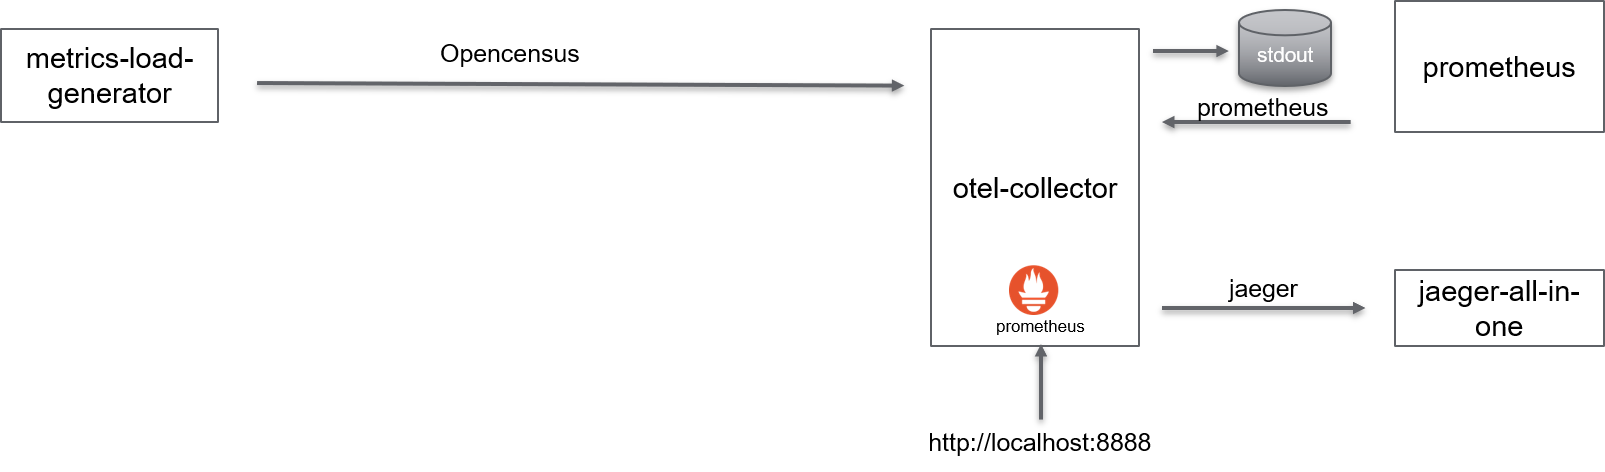
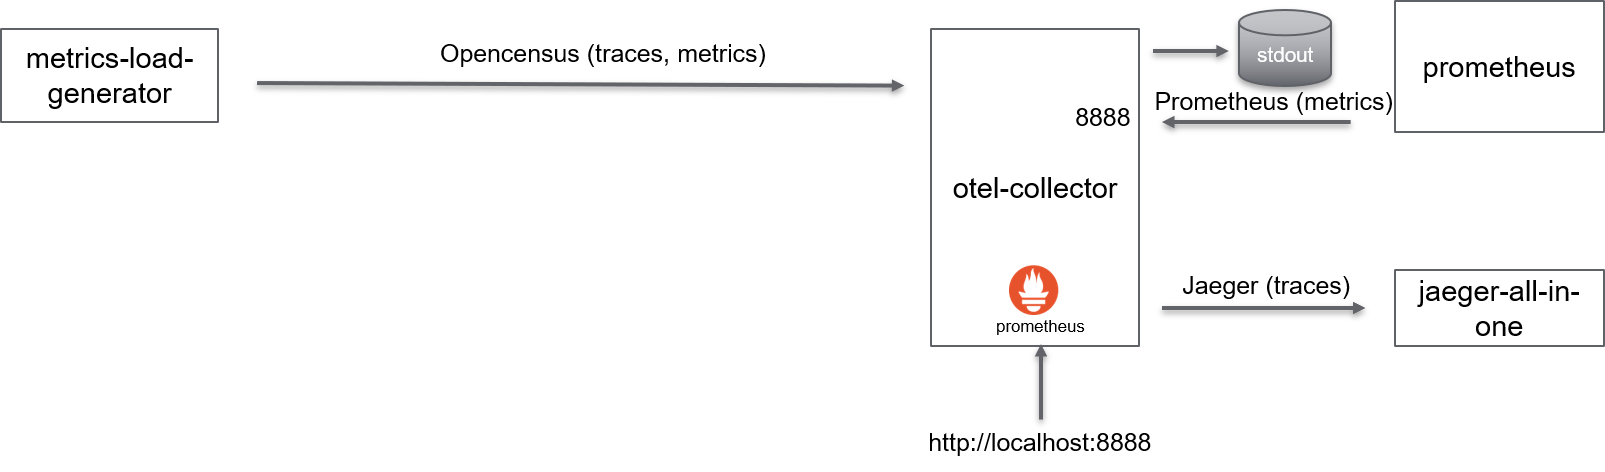
Clean-up

diff --git a/opentelemetry-collector/README.md b/opentelemetry-collector/README.md
@@ -19,23 +19,53 @@ Record number of time LineLength has been recorded
 Record sum of LineLength
 
 
-Original code: from [Github](https://github.com/open-telemetry/opentelemetry-collector/tree/master/examples
-)
+# Single Collector architecture
+## Overview
+
+Original code: from [Github](https://github.com/open-telemetry/opentelemetry-collector/tree/master/examples)
 
 ![use case](./docs/otel-collector-std.png)
-
-# Build
+## Build
 make build
 
-# Run with docker-compose
+## Run with docker-compose
 make start
 
-# Visualize
-## Traces
+## Visualize
+### Traces
 Traces can be seen with Jaeger: http://localhost:16686
-## Metrics
+### Metrics
 Metrics can be seen in text mode: http://localhost:8888/metrics
+Metrics can be seen in text mode: http://localhost:8889/metrics
 Metrics can be seen with prometheus: http://localhost:9090
 
-# Stop
+## Stop
+make down
+
+# Agent and Collector architecture
+## Overview
+
+Original code: from [Github](https://github.com/open-telemetry/opentelemetry-collector/tree/master/examples/demo)
+![use case](./docs/otel-agent-collector-std.png)
+
+## Build
+cd demo
+make build
+
+## Run with docker-compose
+cd demo
+make start
+
+## Visualize
+### Traces
+Traces can be seen with Jaeger: http://localhost:16686
+Traces can be seen with Zipkin: http://localhost:9411/zipkin
+
+### Metrics
+Metrics (agent) can be seen in text mode: http://localhost:8887/metrics
+Metrics (collector) can be seen in text mode: http://localhost:8888/metrics
+Metrics (go application) can be seen in text mode: http://localhost:8889/metrics
+Metrics (go application) can be seen with prometheus: http://localhost:9090
+
+## Stop
 make down

diff --git a/opentelemetry-go/http/README.md b/opentelemetry-go/http/README.md
@@ -1,24 +1,35 @@
-# HTTP Client-Server Example
+# Overview
 
 An HTTP client connects to an HTTP server. They both generate span information to `stdout`.
 These instructions expect you have [docker-compose](https://docs.docker.com/compose/) installed.
+Create relationship between spans
+Demonstrate trace context propagation inside and across processes
 
-Bring up the `http-server` and `http-client` services to run the example:
-```sh
-docker-compose up --detach http-server http-client
-```
+Original code: from [Github](https://github.com/open-telemetry/opentelemetry-go/sample/http)
 
-The `http-client` service sends just one HTTP request to `http-server` and then exits. View the span generated to `stdout` in the logs:
-```sh
-docker-compose logs http-client
-```
+The example has disappear from the latest release
+![use case](./docs/otel-collector-std.png)
+![use case](./docs/go-example-http.png)
 
-View the span generated by `http-server` in the logs:
-```sh
-docker-compose logs http-server
-```
+# Build
+make build
 
-Shut down the services when you are finished with the example:
-```sh
-docker-compose down
+## Run with docker-compose
+make start
+
+## Generate trace
+Optionally generate trace on server: curl http://localhost:7777/hello
+
+## Visualize
+### Traces
+Traces can be seen with Jaeger: http://localhost:16686
+Traces can be seen with Zipkin: http://localhost:9411/zipkin
+
+### Metrics
+Metrics can be seen in text mode: http://localhost:8888/metrics
+Metrics can be seen with prometheus: http://localhost:9090
+
+## Stop
+make down
+
 ```
